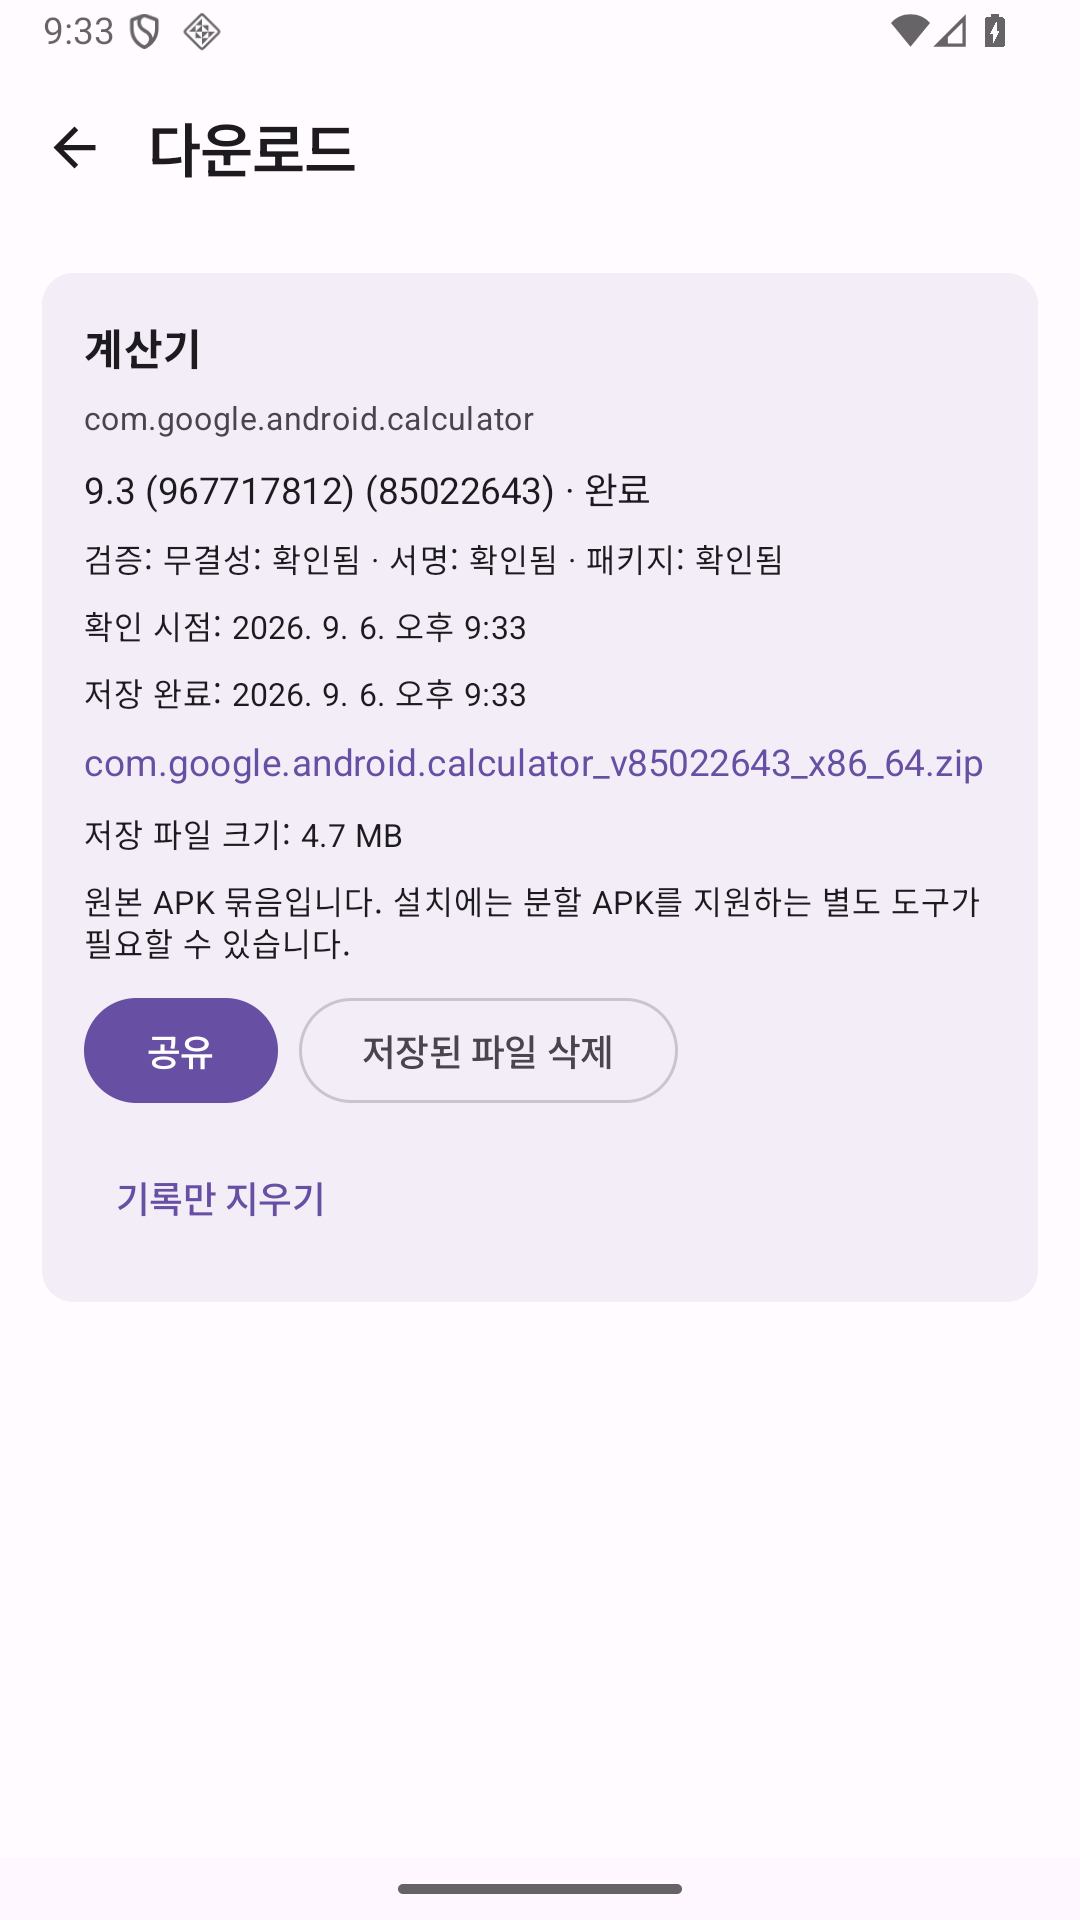
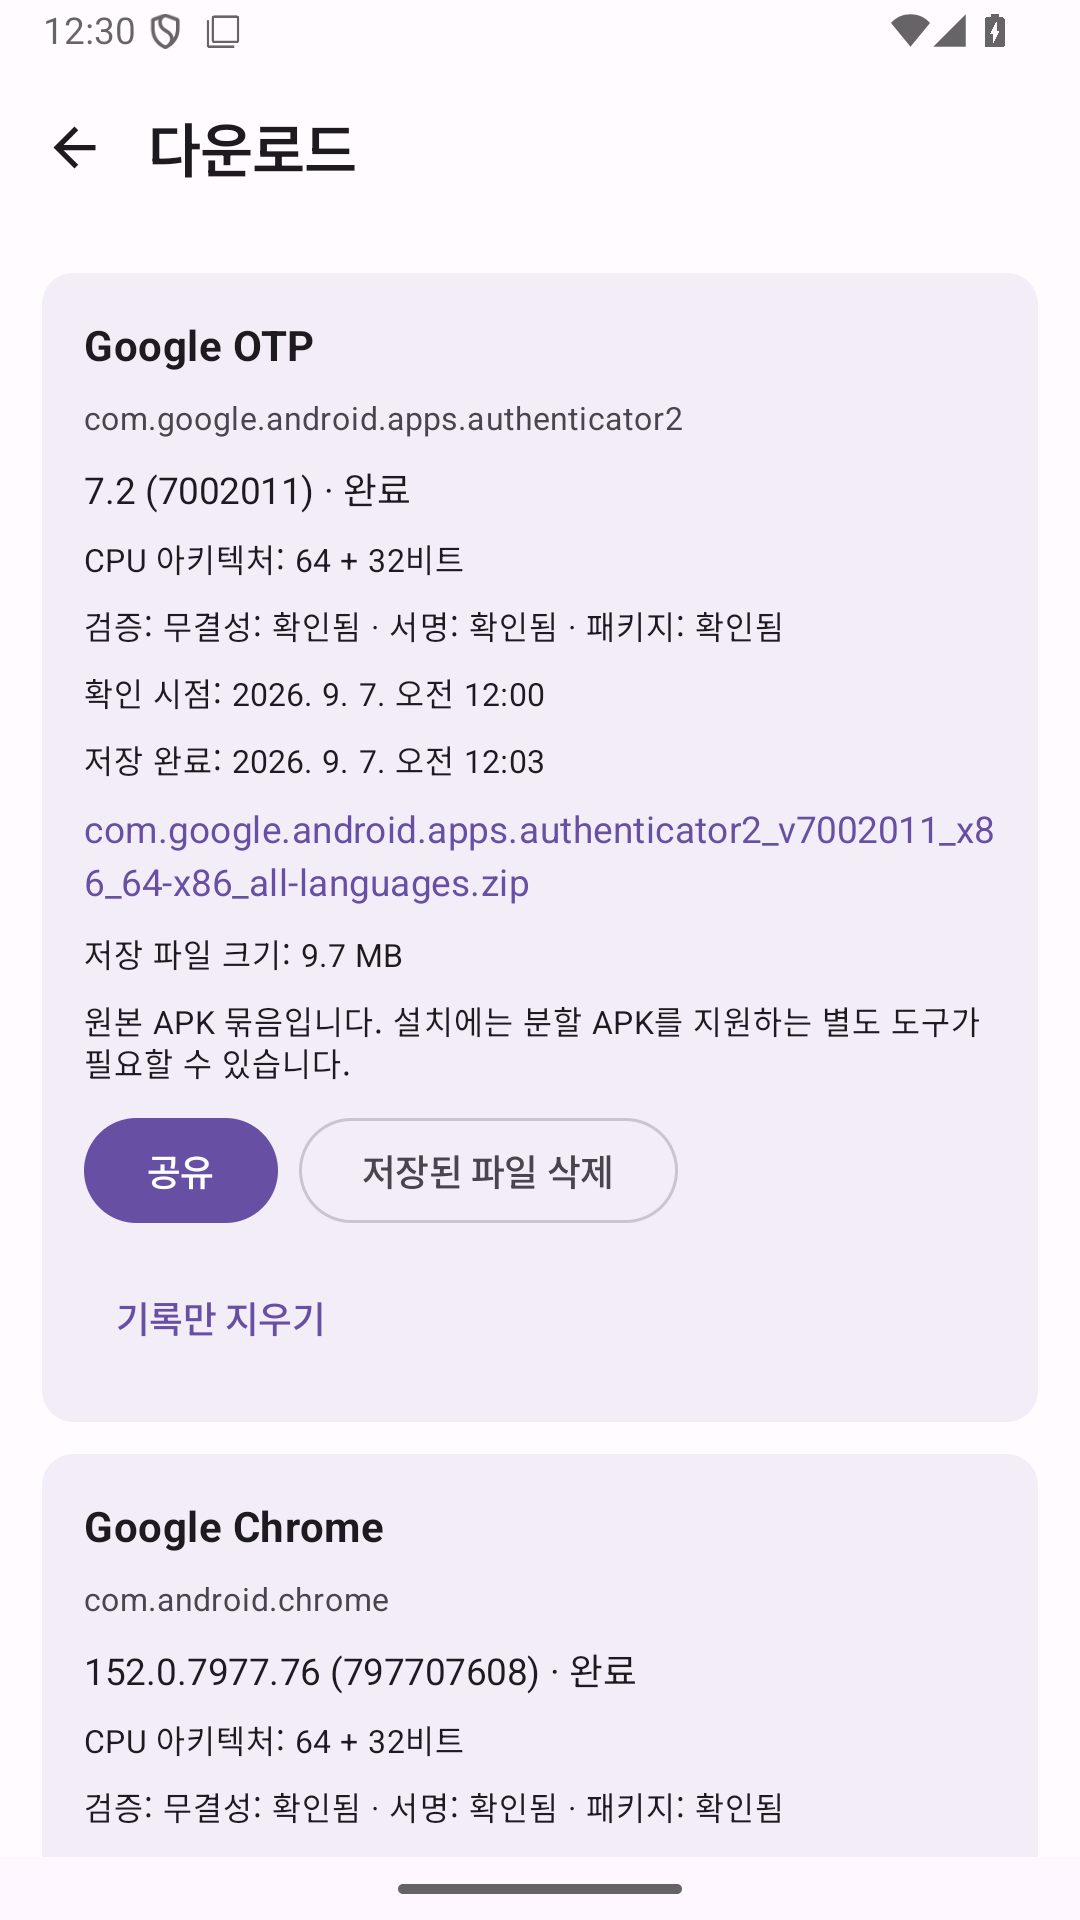
docs: prepare the 1.1.0 all-language release

diff --git a/RELEASE_NOTES.md b/RELEASE_NOTES.md
@@ -1,3 +1,37 @@
+# Aurora Pure 1.1.0
+
+모든 언어팩과 선택 가능한 64/32비트 제공 프로파일을 추가한 릴리스입니다.
+
+## 새 기능
+
+- 기본값을 **64 + 32비트**로 설정하고, 64비트 전용·32비트 전용 선택 제공
+- 각 CPU 아키텍처를 별도 Google Play 기기 프로파일로 조회
+- base APK의 bundletool `splits*.xml` 선언을 읽어 현재 전달 모듈의 모든 언어 split 탐색
+- 한 번의 다중 언어 요청 후 누락된 언어만 제한적으로 개별 보충
+- 64/32비트의 완전한 APK 세트를 `variants/64bit`와 `variants/32bit`에 독립 보존
+- 서로 동일한 제공 파일은 검증된 메타데이터와 해시가 일치할 때만 로컬 복사로 재사용
+- 다운로드 계획과 `download-info.json`에 요청 로케일, 파일별 로케일 및 아키텍처 프로파일 기록
+
+## 정확성과 안전성
+
+- 기능 모듈별 언어 split 및 base/master에 이미 포함된 언어의 빈 split 선언 처리
+- 다운로드 응답을 전체 protobuf로 해석해 파일 목록 누락 방지
+- 원격 base APK는 ZIP 중앙 디렉터리와 split XML 범위만 우선 읽고, Range 미지원 시 검증된 전체 파일로 안전하게 대체
+- 언어 split 하나라도 누락되면 불완전한 묶음 내보내기 차단
+- 서로 다른 앱 버전이 64/32비트 프로파일에 제공되면 결합 차단
+- Google Play HTTP 오류를 인증·요청 제한·기타 상태로 구분해 표시
+
+## 실제 릴리스 검증
+
+- Android 16 x86_64 환경에서 Google OTP 7.2(7002011)로 64/32비트 프로파일 동시 시험
+- 선언 로케일 82개, 언어 APK 164개, 총 APK 168개 다운로드 성공
+- 최종 ZIP 170개 엔트리 검사 및 `SHA256SUMS.txt` 전체 일치
+- 모든 APK 무결성·서명·패키지명·버전 검증 통과
+
+“모든 언어팩”은 현재 선택한 제공 프로파일과 현재 전달되는 모듈이 앱 메타데이터에 선언한 언어를 뜻합니다. 온디맨드 모듈, Play Asset Delivery, 실행 후 추가 데이터는 포함하지 않습니다.
+
+---
+
 # Aurora Pure 1.0.0
 
 첫 공개 릴리스입니다.

diff --git a/PRIVACY.md b/PRIVACY.md
@@ -1,6 +1,6 @@
 # Aurora Pure 개인정보 안내
 
-최종 갱신: 2026-09-06
+최종 갱신: 2026-09-07
 
 Aurora Pure는 자체 광고, 행동 분석, 사용 통계 수집, 자동 오류 보고 서버를 운영하지 않습니다. 개인 Google 계정 로그인도 제공하지 않습니다.
 
@@ -9,11 +9,14 @@ Aurora Pure는 자체 광고, 행동 분석, 사용 통계 수집, 자동 오류
 사용자가 검색 또는 다운로드를 명시적으로 실행하면 기능 수행에 필요한 범위에서 다음 정보가 Google Play 및 익명 연결 서비스에 전달될 수 있습니다.
 
 - 검색어 또는 사용자가 지정한 패키지명
-- Android 버전, CPU ABI, 화면 밀도, 언어 등 APK 선택에 필요한 기기 구성
+- Android 버전, 사용자가 선택한 64/32비트 CPU 제공 프로파일, 화면 밀도 등 APK 선택에 필요한 기기 구성
+- 앱이 선언한 모든 언어 split을 명시적으로 요청하기 위한 언어 코드 목록
 - 통신 과정에서 일반적으로 보이는 네트워크 주소와 요청 정보
 - 개인 계정이 아닌 익명 세션의 인증 정보
 
 익명 사용은 “개인 Google 계정을 입력하지 않는다”는 뜻이며, Google Play와 아무 통신도 하지 않는다는 뜻은 아닙니다. 외부 서비스의 운영과 개인정보 처리는 해당 서비스 제공자의 정책에도 영향을 받습니다.
+
+64 + 32비트 선택은 두 제공 프로파일을 각각 조회합니다. 모든 언어팩 기능은 사용자가 계획 확인 또는 다운로드를 실행했을 때만 작동하며, 키보드 입력 중 자동 요청이나 백그라운드 조회를 하지 않습니다.
 
 ## 기기에서 처리되는 정보
 

diff --git a/BUILDING.md b/BUILDING.md
@@ -33,6 +33,15 @@ AURORA_PURE_APK_FIXTURE_VERSION=12345 \
   ./gradlew :pure:testDebugUnitTest
 ```
 
+base APK의 `res/xml/splits*.xml` 언어 선언 파서까지 실제 파일로 검사하려면 다음 변수를 함께 또는 별도로 지정합니다.
+
+```bash
+AURORA_PURE_BASE_APK=/absolute/path/to/base.apk \
+  ./gradlew :pure:testDebugUnitTest
+```
+
+저장소에는 제3자 APK 픽스처를 커밋하지 않습니다. CI 기본 테스트는 ZIP Range 인덱스와 다운로드 정책을 합성 데이터로 검증하고, 실제 APK 통합 시험은 릴리스 담당자가 로컬에서 실행합니다.
+
 ## 릴리스 서명
 
 `pure/signing.properties` 파일을 로컬에 만들면 릴리스 빌드가 해당 키로 서명됩니다. 이 파일과 키 저장소는 Git에서 제외됩니다.
